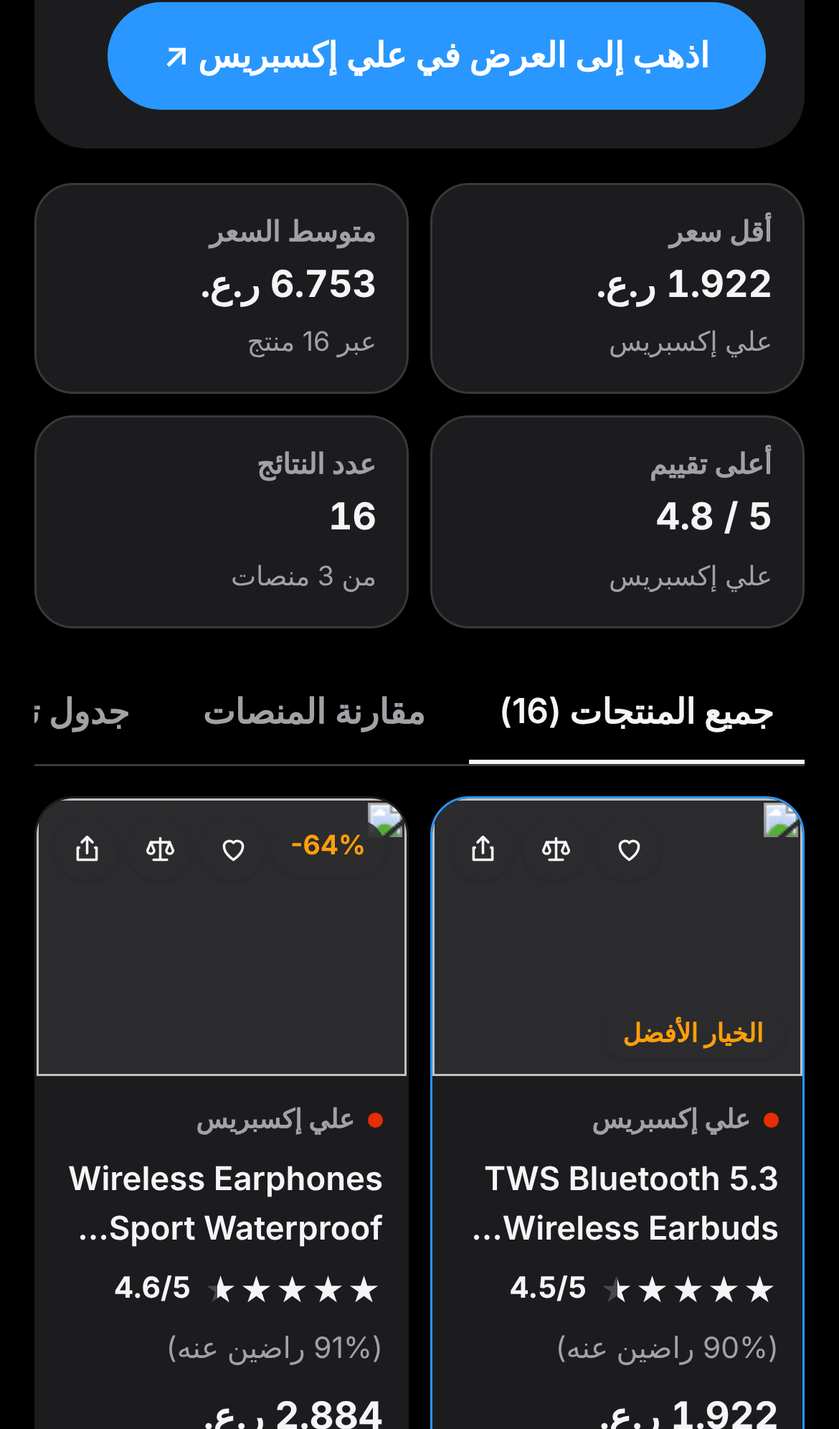
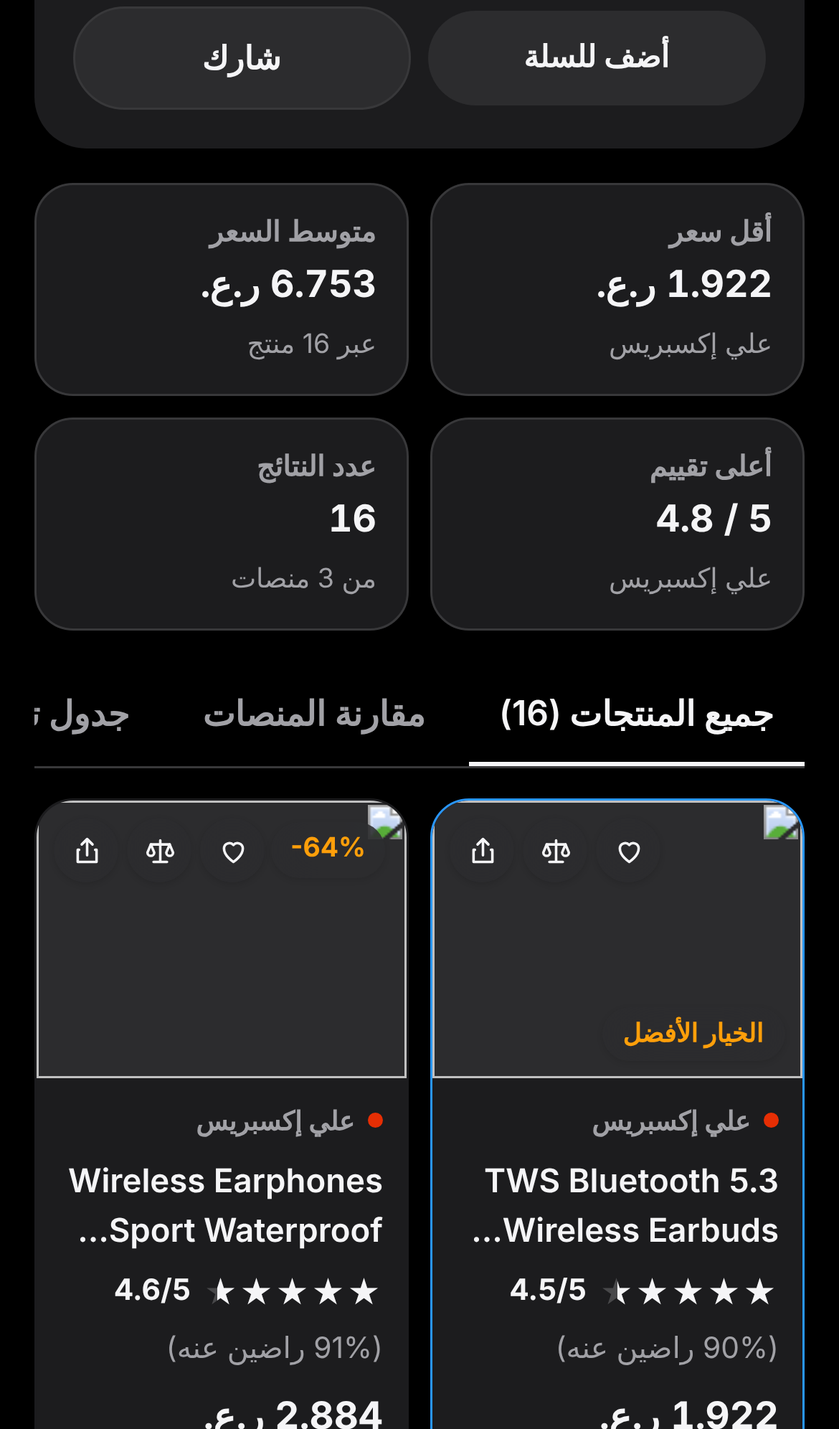
Organize layout: remove popular searches, categories and product count; Almarai font; equal tiles, grouped follow list, segmented priority control, aligned card buttons
Claude-Session: https://claude.ai/code/session_01JPcJJz9RvUid6aaScUD6z8

diff --git a/index.html b/index.html
@@ -14,6 +14,9 @@
 <meta property="og:image" content="https://abtkar2011-bot.github.io/Qarin/icons/icon-512.png">
 <meta property="og:url" content="https://abtkar2011-bot.github.io/Qarin/">
 <meta property="og:locale" content="ar_AR">
+<link rel="preconnect" href="https://fonts.googleapis.com">
+<link rel="preconnect" href="https://fonts.gstatic.com" crossorigin>
+<link rel="stylesheet" href="https://fonts.googleapis.com/css2?family=Almarai:wght@300;400;700;800&display=swap">
 <link rel="manifest" href="manifest.webmanifest">
 <meta name="theme-color" content="#F5F5F7" media="(prefers-color-scheme: light)">
 <meta name="theme-color" content="#000000" media="(prefers-color-scheme: dark)">
@@ -63,7 +66,7 @@
   --glass: rgba(255, 255, 255, 0.82);
   --mark-filter: brightness(0);
   --logo-bg: #1D1D1F;
-  --font: -apple-system, BlinkMacSystemFont, 'SF Pro Text', 'SF Arabic', 'Segoe UI', 'Noto Sans Arabic', Tahoma, sans-serif;
+  --font: 'Almarai', -apple-system, BlinkMacSystemFont, 'Segoe UI', 'Noto Sans Arabic', Tahoma, sans-serif;
   --radius: 18px;
 }
 @media (prefers-color-scheme: dark) {
@@ -124,7 +127,7 @@ a { color: inherit; }
 .icon-btn { display: none; width: 36px; height: 36px; border-radius: 10px; border: 1px solid var(--line); background: var(--surface-2); cursor: pointer; }
 .side-sec { display: flex; flex-direction: column; gap: 8px; }
 .side-sec h3 { margin: 0; font-size: 0.95rem; font-weight: 700; }
-.checks { display: grid; grid-template-columns: 1fr 1fr; gap: 6px; }
+.checks { display: grid; grid-template-columns: minmax(0, 1fr); gap: 6px; }
 .check {
   display: flex; align-items: center; gap: 8px; padding: 7px 10px; border: 1px solid var(--line);
   border-radius: 12px; cursor: pointer; font-size: 0.9rem; font-weight: 600; background: var(--surface);
@@ -183,7 +186,14 @@ html[dir="ltr"] .mini-sel select { padding: 7px 28px 7px 12px; background-positi
 .src-line { display: flex; flex-wrap: wrap; justify-content: center; align-items: center; gap: 4px 14px; font-size: 0.84rem; color: var(--muted); margin-top: -4px; }
 .src-line > span { display: inline-flex; align-items: center; gap: 6px; }
 .src-line .src-n { flex-basis: 100%; justify-content: center; }
-.follow .hero-links { margin-top: 6px; }
+.follow { background: var(--surface); border: 1px solid var(--line); border-radius: 18px; overflow: hidden; margin-top: 4px; }
+.follow-list { display: flex; flex-direction: column; }
+.follow-list a { display: flex; align-items: center; gap: 12px; padding: 14px 16px; color: var(--fg); text-decoration: none; font-weight: 700; font-size: 0.95rem; }
+.follow-list a + a { border-top: 1px solid var(--line); }
+.follow-list a svg { width: 22px; height: 22px; flex: none; color: var(--fg); }
+.follow-list a::after { content: "‹"; margin-inline-start: auto; color: var(--muted); font-size: 1.3rem; line-height: 1; }
+html[dir="ltr"] .follow-list a::after { content: "›"; }
+.follow-list a:active { background: var(--surface-2); }
 .pre-search .filters-toggle { display: none !important; }
 .theme-btn { flex: none; width: 38px; height: 38px; border-radius: 50%; border: 1px solid var(--line); background: var(--surface); color: var(--fg); display: grid; place-items: center; cursor: pointer; padding: 0; transition: transform .2s ease; }
 .theme-btn:active { transform: scale(.92); }
@@ -304,7 +314,10 @@ html[dir="ltr"] .app, html[dir="ltr"] .dock, html[dir="ltr"] .cmp-bar, html[dir=
 .score b { color: var(--fg); font-size: 0.85rem; }
 a.shop-btn { margin-top: auto; display: block; text-align: center; text-decoration: none; font-weight: 600; padding: 9px 12px; border-radius: 999px; font-size: 0.9rem; background: var(--accent); color: #FFFFFF; transition: filter 0.15s ease; }
 a.shop-btn:hover { filter: brightness(1.1); }
-.best-card a.shop-btn { display: inline-block; padding: 12px 26px; font-size: 1rem; margin-top: 6px; }
+.best-card a.shop-btn { display: block; padding: 12px 20px; font-size: 1rem; margin-top: 0; }
+.best-card .acts-row { display: grid; grid-template-columns: 1fr 1fr; gap: 8px; width: 100%; margin-top: 4px; }
+.best-card .acts-row a.shop-btn { grid-column: 1 / -1; order: -1; }
+.best-card .acts-row .cart-btn, .best-card .acts-row .share-btn { width: 100%; margin: 0; padding: 11px 12px; border-radius: 999px; }
 .skeleton .img, .skeleton .line { background: linear-gradient(90deg, var(--skel-1) 25%, var(--skel-2) 50%, var(--skel-1) 75%); background-size: 200% 100%; animation: shimmer 1.2s infinite; }
 .skeleton .line { height: 12px; border-radius: 6px; }
 @keyframes shimmer { 0% { background-position: 200% 0; } 100% { background-position: -200% 0; } }
@@ -486,17 +499,12 @@ table.dt { min-width: 0; font-size: .76rem; }
 .bk-mix { background: var(--surface); border: 1px solid var(--line); border-radius: 20px; padding: 14px 16px; }
 
 /* ---------- الأولوية والأقسام والروابط ---------- */
-.prio-bar { display: flex; flex-wrap: wrap; gap: 6px; align-items: center; background: var(--surface); border: 1px solid var(--line); border-radius: 16px; padding: 8px 10px; }
-.prio-bar span { font-weight: 700; font-size: 0.92rem; margin-inline-end: 4px; }
-.prio-bar button { border: 1px solid var(--line); background: var(--surface-2); color: var(--fg); border-radius: 999px; padding: 6px 12px; font: inherit; font-weight: 700; font-size: 0.86rem; cursor: pointer; }
-.prio-bar button[aria-checked="true"] { background: var(--fg); border-color: var(--fg); color: var(--surface); }
-.cats { background: var(--surface); border: 1px solid var(--line); border-radius: 18px; padding: 10px 12px; display: flex; flex-direction: column; gap: 8px; }
-.cats b { font-size: 0.95rem; }
-.cat-tabs, .cat-chips { display: flex; gap: 6px; overflow-x: auto; padding-bottom: 2px; scrollbar-width: thin; }
-.cat-tabs button { flex: none; border: 0; background: var(--surface-2); border-radius: 12px; padding: 7px 12px; font: inherit; font-weight: 700; cursor: pointer; color: var(--fg); }
-.cat-tabs button.on { background: var(--fg); color: var(--surface); }
-.cat-chips button { flex: none; border: 1px solid var(--line); background: var(--surface); border-radius: 999px; padding: 6px 12px; font: inherit; font-weight: 600; font-size: 0.88rem; cursor: pointer; color: var(--fg); }
-.cat-chips button:hover { border-color: var(--accent); color: var(--accent-strong); }
+.prio-bar { display: flex; flex-direction: column; gap: 10px; background: var(--surface); border: 1px solid var(--line); border-radius: 18px; padding: 12px; }
+.prio-head { display: flex; align-items: center; justify-content: space-between; gap: 8px; min-height: 34px; }
+.prio-head > span { font-weight: 700; font-size: 0.95rem; }
+.prio-seg { display: grid; grid-template-columns: repeat(5, minmax(0, 1fr)); gap: 2px; padding: 3px; border-radius: 12px; background: var(--surface-2); }
+.prio-seg button { border: 0; background: transparent; color: var(--fg); border-radius: 9px; padding: 8px 4px; min-height: 40px; font: inherit; font-weight: 700; font-size: 0.84rem; line-height: 1.25; cursor: pointer; }
+.prio-seg button[aria-checked="true"] { background: var(--surface); box-shadow: 0 1px 4px rgba(0, 0, 0, 0.12); }
 .link-box { display: flex; gap: 12px; align-items: center; background: var(--tint-2); border: 1px solid var(--line); border-radius: 16px; padding: 10px 14px; }
 .link-box img { width: 56px; height: 56px; object-fit: cover; border-radius: 10px; flex: none; }
 .link-box div { min-width: 0; font-size: 0.9rem; }
@@ -505,11 +513,17 @@ table.dt { min-width: 0; font-size: .76rem; }
 .with-ship b { color: var(--fg); }
 
 /* ---------- سلة المستخدم ---------- */
+.pcard .cart-btn { margin-top: auto; }
+.pcard a.shop-btn { margin-top: 6px; }
 .cart-btn { margin-top: 6px; width: 100%; border: 0; background: var(--surface-2); color: var(--fg); border-radius: 999px; padding: 8px 10px; font: inherit; font-weight: 600; font-size: 0.88rem; cursor: pointer; }
 .pre-search .prio-bar { display: none; }
 .img-btn { flex: none; border: 0; background: transparent; color: var(--muted); border-radius: 50%; width: 44px; height: 44px; padding: 0; cursor: pointer; display: inline-flex; align-items: center; justify-content: center; }
 .img-btn svg { width: 21px; height: 21px; }
-.tools-row { display: flex; gap: 8px; flex-wrap: wrap; margin: 4px 0 12px; }
+.tools-row { display: grid; grid-template-columns: repeat(2, minmax(0, 1fr)); gap: 10px; }
+.tools-row .tool-btn { display: flex; flex-direction: column; align-items: flex-start; gap: 3px; padding: 14px 16px; border-radius: 18px; text-align: start; min-width: 0; }
+.tools-row .tool-btn svg { width: 24px; height: 24px; margin-bottom: 4px; }
+.tools-row .tool-btn span { font-size: 0.98rem; font-weight: 700; }
+.tools-row .tool-btn small { display: block; line-height: 1.4; }
 .tool-btn { display: inline-flex; align-items: center; gap: 8px; padding: 9px 16px; border-radius: 999px; border: 1px solid var(--line); background: var(--surface); color: var(--fg); font: inherit; font-weight: 600; cursor: pointer; }
 .tool-btn small { font-weight: 600; color: var(--muted); font-size: .78rem; }
 .tool-btn[aria-expanded="true"] { background: var(--surface-2); border-color: var(--fg); }
@@ -539,7 +553,7 @@ table.dt { min-width: 0; font-size: .76rem; }
 .bk-acts button { flex: 1; border-radius: 12px; padding: 8px; font: inherit; font-weight: 700; cursor: pointer; border: 1px solid var(--line); background: var(--surface-2); color: var(--fg); }
 .share-btn { margin-top: 6px; border: 1px solid var(--line); background: var(--surface-2); color: var(--fg); border-radius: 12px; padding: 8px 14px; font: inherit; font-weight: 700; cursor: pointer; white-space: nowrap; }
 .cart-btn.on { background: var(--surface-2); color: var(--good); }
-.best-card .row .cart-btn { width: auto; margin: 6px 0 0; padding: 12px 18px; }
+
 .cart-row .tt { color: inherit; text-decoration: none; }
 .qty { display: flex; align-items: center; gap: 8px; margin-top: 6px; }
 .qty button { width: 30px; height: 30px; border-radius: 8px; border: 1px solid var(--line); background: var(--surface-2); cursor: pointer; font: inherit; font-weight: 700; color: inherit; }
@@ -593,17 +607,11 @@ table.dt { min-width: 0; font-size: .76rem; }
   .search input { font-size: 1rem; padding: 9px 12px; }
   .search .btn-primary, .img-btn { height: 42px; min-width: 42px; width: 42px; padding: 0; }
   .hero p { font-size: 0.98rem; }
-  .tools-row { justify-content: center; margin: 0 0 4px; }
-  .tool-btn { padding: 7px 14px; font-size: 0.9rem; }
-  .tool-btn small { display: none; }
-  .suggest > span { font-size: 0.85rem; }
-  .chips-row { flex: 1 1 100%; flex-wrap: nowrap; overflow-x: auto; scrollbar-width: none; padding-bottom: 2px; }
-  .chips-row::-webkit-scrollbar { display: none; }
-  .chip-btn { flex: none; }
   .dock .rate-fab { display: none; }
   .dock.only-rate { display: none; }
-  body:not(.pre-search) .hero p, body:not(.pre-search) .src-line, body:not(.pre-search) .tools-row, body:not(.pre-search) .cats,
-  body:not(.pre-search) .suggest > span, body:not(.pre-search) #chips { display: none; }
+  body:not(.pre-search) .hero p, body:not(.pre-search) .src-line, body:not(.pre-search) .tools-row { display: none; }
+  .tools-row .tool-btn { padding: 13px 14px; }
+  .prio-seg button { font-size: 0.78rem; padding: 7px 2px; }
   body:not(.pre-search) .hero { padding-top: 2px; }
   body:not(.pre-search) .hero h1 { font-size: 1.7rem; }
   .btn-primary { padding: 0 16px; }
@@ -723,8 +731,8 @@ table.dt { min-width: 0; font-size: .76rem; }
     </div>
     <div class="src-line" id="heroChips"></div>
     <div class="tools-row">
-      <button type="button" class="tool-btn" id="basketToggle" aria-expanded="false" aria-controls="basketBox"><span>أفضل سلة</span><small>قارن سلة كاملة بين المتاجر</small></button>
-      <a class="tool-btn" href="coupons.html" style="text-decoration:none"><span>كوبونات اليوم</span><small>أكواد خصم رسمية</small></a>
+      <button type="button" class="tool-btn" id="basketToggle" aria-expanded="false" aria-controls="basketBox"><svg viewBox="0 0 24 24" fill="none" stroke="currentColor" stroke-width="1.8" stroke-linecap="round" stroke-linejoin="round" aria-hidden="true"><path d="M3 10h18l-1.6 9.2a1 1 0 0 1-1 .8H5.6a1 1 0 0 1-1-.8L3 10Z"/><path d="m8 10 3-6M16 10l-3-6M9 14v3M15 14v3"/></svg><span>أفضل سلة</span><small>قارن سلة كاملة بين المتاجر</small></button>
+      <a class="tool-btn" href="coupons.html" style="text-decoration:none"><svg viewBox="0 0 24 24" fill="none" stroke="currentColor" stroke-width="1.8" stroke-linecap="round" stroke-linejoin="round" aria-hidden="true"><path d="M4 7a1 1 0 0 1 1-1h14a1 1 0 0 1 1 1v3a2 2 0 0 0 0 4v3a1 1 0 0 1-1 1H5a1 1 0 0 1-1-1v-3a2 2 0 0 0 0-4V7Z"/><path d="M14 6v12" stroke-dasharray="2 2"/></svg><span>كوبونات اليوم</span><small>أكواد خصم رسمية</small></a>
     </div>
     <section class="basket-box" id="basketBox" hidden>
       <div class="bb-head"><b>أفضل سلة</b><span>اكتب كل منتج في خانة، ونطلع لك أفضل سلة من كل متجر لحاله</span></div>
@@ -732,31 +740,25 @@ table.dt { min-width: 0; font-size: .76rem; }
       <div class="bb-acts"><button type="button" class="tool-btn" id="basketAdd">أضف منتج</button><button type="button" class="btn-primary" id="basketGo">دوّر أفضل سلة</button></div>
     </section>
 
-    <div class="suggest">
-      <span>عمليات بحث شائعة:</span>
-      <div class="chips-row" id="chips"></div>
-      <button type="button" class="filters-toggle" id="openFilters"><svg viewBox="0 0 24 24" fill="none" stroke="currentColor" stroke-width="1.9" stroke-linecap="round" stroke-linejoin="round" aria-hidden="true"><path d="M4 7h10M18 7h2M4 17h4M12 17h8"/><circle cx="16" cy="7" r="2"/><circle cx="10" cy="17" r="2"/></svg><span>الفلاتر</span></button>
-    </div>
-
-    <div class="cats" id="cats"></div>
-
-    <div class="prio-bar" role="radiogroup" aria-label="أولويتك">
-      <span>أولويتك:</span>
+    <div class="prio-bar">
+      <div class="prio-head"><span>أولويتك</span><button type="button" class="filters-toggle" id="openFilters"><svg viewBox="0 0 24 24" fill="none" stroke="currentColor" stroke-width="1.9" stroke-linecap="round" stroke-linejoin="round" aria-hidden="true"><path d="M4 7h10M18 7h2M4 17h4M12 17h8"/><circle cx="16" cy="7" r="2"/><circle cx="10" cy="17" r="2"/></svg><span>الفلاتر</span></button></div>
+      <div class="prio-seg" role="radiogroup" aria-label="أولويتك">
       <button type="button" role="radio" data-prio="0">الأرخص</button>
       <button type="button" role="radio" data-prio="1">أقرب للأرخص</button>
       <button type="button" role="radio" data-prio="2">متوازن</button>
       <button type="button" role="radio" data-prio="3">أقرب للجودة</button>
       <button type="button" role="radio" data-prio="4">الأجود</button>
+      </div>
     </div>
 
     <div id="status"></div>
     <div id="results" class="main" style="gap:16px"></div>
 
     <section class="follow" aria-label="تابع قارِن">
-      <div class="hero-links">
-        <a class="wa-btn" href="https://whatsapp.com/channel/0029Vb9jfF32ER6lZlW2Qn2F" target="_blank" rel="noopener noreferrer"><svg viewBox="0 0 24 24" aria-hidden="true"><path fill="currentColor" d="M12 2a10 10 0 0 0-8.6 15.1L2 22l5-1.3A10 10 0 1 0 12 2Zm0 18.2a8.2 8.2 0 0 1-4.2-1.2l-.3-.2-3 .8.8-2.9-.2-.3A8.2 8.2 0 1 1 12 20.2Zm4.5-6.1c-.2-.1-1.5-.7-1.7-.8-.2-.1-.4-.1-.6.1l-.8 1c-.1.2-.3.2-.5.1a6.7 6.7 0 0 1-3.3-2.9c-.2-.4.2-.4.7-1.3.1-.2 0-.3 0-.4l-.8-1.9c-.2-.5-.4-.4-.6-.4h-.5c-.2 0-.4.1-.6.3a2.6 2.6 0 0 0-.8 1.9c0 1.1.8 2.2.9 2.4.1.2 1.6 2.5 3.9 3.5 1.5.6 2 .7 2.7.6.4-.1 1.3-.5 1.5-1.1.2-.5.2-1 .1-1.1l-.6-.2Z"/></svg><span>تابع عروض قارِن اليومية على واتساب</span></a>
-        <a class="wa-btn" href="https://www.instagram.com/qarin_app/" target="_blank" rel="noopener noreferrer"><svg viewBox="0 0 24 24" aria-hidden="true"><path fill="currentColor" d="M12 2.2c3.2 0 3.6 0 4.8.1 3.3.1 4.8 1.7 4.9 4.9.1 1.3.1 1.6.1 4.8s0 3.6-.1 4.8c-.1 3.2-1.7 4.8-4.9 4.9-1.3.1-1.6.1-4.8.1s-3.6 0-4.8-.1c-3.3-.1-4.8-1.7-4.9-4.9-.1-1.3-.1-1.6-.1-4.8s0-3.6.1-4.8C2.4 4 3.9 2.4 7.2 2.3c1.3-.1 1.6-.1 4.8-.1ZM12 0C8.7 0 8.3 0 7.1.1 2.7.3.3 2.7.1 7.1 0 8.3 0 8.7 0 12s0 3.7.1 4.9c.2 4.4 2.6 6.8 7 7 1.2.1 1.6.1 4.9.1s3.7 0 4.9-.1c4.4-.2 6.8-2.6 7-7 .1-1.2.1-1.6.1-4.9s0-3.7-.1-4.9c-.2-4.4-2.6-6.8-7-7C15.7 0 15.3 0 12 0Zm0 5.8a6.2 6.2 0 1 0 0 12.4 6.2 6.2 0 0 0 0-12.4Zm0 10.2a4 4 0 1 1 0-8 4 4 0 0 1 0 8Zm6.4-11.8a1.4 1.4 0 1 0 0 2.9 1.4 1.4 0 0 0 0-2.9Z"/></svg><span>تابعنا على انستقرام</span></a>
-        <a class="wa-btn" href="#" id="installHero"><svg viewBox="0 0 24 24" fill="none" stroke="currentColor" stroke-width="1.9" stroke-linecap="round" stroke-linejoin="round" aria-hidden="true"><rect x="4" y="4" width="16" height="16" rx="4"/><path d="M12 8.5v7M8.5 12h7"/></svg><span>أضف قارِن لشاشتك</span></a>
+      <div class="follow-list">
+        <a href="https://whatsapp.com/channel/0029Vb9jfF32ER6lZlW2Qn2F" target="_blank" rel="noopener noreferrer"><svg viewBox="0 0 24 24" aria-hidden="true"><path fill="currentColor" d="M12 2a10 10 0 0 0-8.6 15.1L2 22l5-1.3A10 10 0 1 0 12 2Zm0 18.2a8.2 8.2 0 0 1-4.2-1.2l-.3-.2-3 .8.8-2.9-.2-.3A8.2 8.2 0 1 1 12 20.2Zm4.5-6.1c-.2-.1-1.5-.7-1.7-.8-.2-.1-.4-.1-.6.1l-.8 1c-.1.2-.3.2-.5.1a6.7 6.7 0 0 1-3.3-2.9c-.2-.4.2-.4.7-1.3.1-.2 0-.3 0-.4l-.8-1.9c-.2-.5-.4-.4-.6-.4h-.5c-.2 0-.4.1-.6.3a2.6 2.6 0 0 0-.8 1.9c0 1.1.8 2.2.9 2.4.1.2 1.6 2.5 3.9 3.5 1.5.6 2 .7 2.7.6.4-.1 1.3-.5 1.5-1.1.2-.5.2-1 .1-1.1l-.6-.2Z"/></svg><span>تابع عروض قارِن اليومية على واتساب</span></a>
+        <a href="https://www.instagram.com/qarin_app/" target="_blank" rel="noopener noreferrer"><svg viewBox="0 0 24 24" aria-hidden="true"><path fill="currentColor" d="M12 2.2c3.2 0 3.6 0 4.8.1 3.3.1 4.8 1.7 4.9 4.9.1 1.3.1 1.6.1 4.8s0 3.6-.1 4.8c-.1 3.2-1.7 4.8-4.9 4.9-1.3.1-1.6.1-4.8.1s-3.6 0-4.8-.1c-3.3-.1-4.8-1.7-4.9-4.9-.1-1.3-.1-1.6-.1-4.8s0-3.6.1-4.8C2.4 4 3.9 2.4 7.2 2.3c1.3-.1 1.6-.1 4.8-.1ZM12 0C8.7 0 8.3 0 7.1.1 2.7.3.3 2.7.1 7.1 0 8.3 0 8.7 0 12s0 3.7.1 4.9c.2 4.4 2.6 6.8 7 7 1.2.1 1.6.1 4.9.1s3.7 0 4.9-.1c4.4-.2 6.8-2.6 7-7 .1-1.2.1-1.6.1-4.9s0-3.7-.1-4.9c-.2-4.4-2.6-6.8-7-7C15.7 0 15.3 0 12 0Zm0 5.8a6.2 6.2 0 1 0 0 12.4 6.2 6.2 0 0 0 0-12.4Zm0 10.2a4 4 0 1 1 0-8 4 4 0 0 1 0 8Zm6.4-11.8a1.4 1.4 0 1 0 0 2.9 1.4 1.4 0 0 0 0-2.9Z"/></svg><span>تابعنا على انستقرام</span></a>
+        <a href="#" id="installHero"><svg viewBox="0 0 24 24" fill="none" stroke="currentColor" stroke-width="1.9" stroke-linecap="round" stroke-linejoin="round" aria-hidden="true"><rect x="4" y="4" width="16" height="16" rx="4"/><path d="M12 8.5v7M8.5 12h7"/></svg><span>أضف قارِن لشاشتك</span></a>
       </div>
     </section>
 
@@ -2632,7 +2634,7 @@ table.dt { min-width: 0; font-size: .76rem; }
           <span class="meta">مؤشر القيمة <b class="num">${p.score.toFixed(0)}</b>/100</span></div>
         ${histHtml(p)}
         <div class="meta-line">${metaHtml(p)}</div>
-        <div class="row">${cartBtn(p)}<button type="button" class="share-btn" data-share="${esc(pkey(p))}">شارك</button>${shopBtn(p, `اذهب إلى العرض في ${pl.name} ↗`)}</div>
+        <div class="row acts-row">${cartBtn(p)}<button type="button" class="share-btn" data-share="${esc(pkey(p))}">شارك</button>${shopBtn(p, `اذهب إلى العرض في ${pl.name} ↗`)}</div>
       </div></section>`;
   }
 
@@ -3314,7 +3316,6 @@ table.dt { min-width: 0; font-size: .76rem; }
     initTheme();
     if (QA) window.__qa = { search, state, raw: QA_RAW, toEnglish, normalize, cache };
     $('heroChips').innerHTML = KEYS.map(k => `<span>${dotI(k)}${PLATFORMS[k].name}</span>`).join('');
-    $('chips').innerHTML = SUGGESTIONS.map(s => `<button type="button" class="chip-btn" data-q="${esc(s)}">${esc(s)}</button>`).join('');
     $('platformChecks').innerHTML = KEYS.map(k => `<label class="check" for="pf-${k}"><input type="checkbox" id="pf-${k}" data-plat="${k}" checked>
       <span class="dot" style="background:${PLATFORMS[k].color}"></span>${PLATFORMS[k].name}</label>`).join('');
     $('sortSel').innerHTML = Object.entries(SORTS).map(([k, l]) => `<option value="${k}">${l.replace(EMO_LEAD, '')}</option>`).join('');
@@ -3325,7 +3326,6 @@ table.dt { min-width: 0; font-size: .76rem; }
       if (m) {
         aliLive = true; renderSources();
         const k = m.n >= 1e6 ? (Math.round(m.n / 1e5) / 10).toLocaleString('en-US') + ' مليون' : m.n >= 1000 ? Math.floor(m.n / 1000).toLocaleString('en-US') + ' ألف' : m.n.toLocaleString('en-US');
-        $('heroChips').insertAdjacentHTML('beforeend', `<span class="src-n">نبحث في ${k} منتج من علي إكسبرس</span>`);
         return;
       }
       fetch(ALI_DATA + 'index.json').then(r => r.ok ? r.json() : null).then(d => { if (d && d.rows) { aliLive = true; renderSources(); } }).catch(() => {});
@@ -3343,7 +3343,6 @@ table.dt { min-width: 0; font-size: .76rem; }
     $('basketInputs').addEventListener('click', e => { const d = e.target.closest('[data-bb-del]'); if (d) { const v = basketVals(); v.splice(+d.dataset.bbDel, 1); basketRows(v); } });
     $('basketInputs').addEventListener('keydown', e => { if (e.key === 'Enter' && e.target.classList.contains('bb-in')) { e.preventDefault(); runBasket(basketVals()); } });
     $('basketGo').addEventListener('click', () => runBasket(basketVals()));
-    $('chips').addEventListener('click', e => { const b = e.target.closest('.chip-btn'); if (b) search(b.dataset.q, false); });
     $('langSel').innerHTML = LANGS.map(([k, n]) => `<option value="${k}">${n}</option>`).join('');
     $('langSel').value = LANG;
     $('langSel').addEventListener('change', e => setLang(e.target.value));
@@ -3372,11 +3371,6 @@ table.dt { min-width: 0; font-size: .76rem; }
     $('limit').addEventListener('input', e => { state.limit = +e.target.value; render(); });
     $('priority').addEventListener('input', e => setPrio(+e.target.value));
     document.querySelectorAll('[data-prio]').forEach(b => b.addEventListener('click', () => setPrio(+b.dataset.prio)));
-    renderCats();
-    $('cats').addEventListener('click', e => {
-      const t = e.target.closest('[data-cat]'); if (t) { catOpen = +t.dataset.cat; renderCats(); try { $('cats').querySelector('.cat-tabs .on').scrollIntoView({ block: 'nearest', inline: 'nearest' }); } catch (err) { /* متصفح قديم */ } return; }
-      const c = e.target.closest('[data-catq]'); if (c) { search(c.dataset.catq, false); $('results').scrollIntoView({ behavior: 'smooth', block: 'start' }); }
-    });
 
     $('results').addEventListener('click', e => {
       const tab = e.target.closest('[data-tab]');

diff --git a/searches.html b/searches.html
@@ -10,11 +10,14 @@
 <meta name="theme-color" content="#F5F5F7" media="(prefers-color-scheme: light)">
 <meta name="theme-color" content="#000000" media="(prefers-color-scheme: dark)">
 <script>try{var qt=localStorage.getItem('qarin.theme');if(qt==='light'||qt==='dark'){document.documentElement.setAttribute('data-theme',qt);document.querySelectorAll('meta[name="theme-color"]').forEach(function(m){m.content=qt==='dark'?'#000000':'#F5F5F7';});}}catch(e){}</script>
+<link rel="preconnect" href="https://fonts.googleapis.com">
+<link rel="preconnect" href="https://fonts.gstatic.com" crossorigin>
+<link rel="stylesheet" href="https://fonts.googleapis.com/css2?family=Almarai:wght@300;400;700;800&display=swap">
 <style>
 :root { color-scheme: light; --bg: #F5F5F7; --surface: #FFFFFF; --fg: #1D1D1F; --muted: #6E6E73; --line: #E3E3E8; --accent: #0071E3; --link: #0066CC; }
 @media (prefers-color-scheme: dark) { :root:not([data-theme="light"]) { --bg: #000000; --surface: #1C1C1E; --fg: #F5F5F7; --muted: #A1A1A6; --line: #38383A; --accent: #2997FF; --link: #2997FF; color-scheme: dark; } }
 :root[data-theme="dark"] { --bg: #000000; --surface: #1C1C1E; --fg: #F5F5F7; --muted: #A1A1A6; --line: #38383A; --accent: #2997FF; --link: #2997FF; color-scheme: dark; }
-body { margin: 0; font-family: -apple-system, BlinkMacSystemFont, 'SF Pro Text', 'SF Arabic', 'Segoe UI', Tahoma, sans-serif; background: var(--bg); color: var(--fg); line-height: 1.7; }
+body { margin: 0; font-family: 'Almarai', -apple-system, BlinkMacSystemFont, 'Segoe UI', Tahoma, sans-serif; background: var(--bg); color: var(--fg); line-height: 1.7; }
 main { max-width: 980px; margin: 0 auto; padding: 24px 16px 48px; }
 header { display: flex; align-items: center; gap: 12px; margin-bottom: 8px; }
 header img { width: 52px; height: 52px; border-radius: 12px; }

diff --git a/stats.html b/stats.html
@@ -7,13 +7,16 @@
 <meta name="theme-color" content="#000000" media="(prefers-color-scheme: dark)">
 <script>try{var qt=localStorage.getItem('qarin.theme');if(qt==='light'||qt==='dark'){document.documentElement.setAttribute('data-theme',qt);document.querySelectorAll('meta[name="theme-color"]').forEach(function(m){m.content=qt==='dark'?'#000000':'#F5F5F7';});}}catch(e){}</script>
 <title>إحصائيات قارِن</title>
+<link rel="preconnect" href="https://fonts.googleapis.com">
+<link rel="preconnect" href="https://fonts.gstatic.com" crossorigin>
+<link rel="stylesheet" href="https://fonts.googleapis.com/css2?family=Almarai:wght@300;400;700;800&display=swap">
 <style>
 :root {
   --bg: #F5F5F7; --surface: #FFFFFF; --surface-2: #F5F5F7; --fg: #1D1D1F; --muted: #6E6E73; --line: #E3E3E8;
   --accent: #0071E3; --accent-strong: #0066CC; --gold: #1D1D1F; --good: #248A3D; --bad: #D70015; --star-off: #D2D2D7;
   --tint-1: #D1FAE5; --tint-2: #EDE9FE; --tint-3: #FEF3C7; --tint-4: #FCE7F3;
   --shadow: 0 4px 18px rgba(76, 29, 149, 0.07);
-  --font: -apple-system, BlinkMacSystemFont, 'SF Pro Text', 'SF Arabic', 'Segoe UI', 'Noto Sans Arabic', Tahoma, sans-serif;
+  --font: 'Almarai', -apple-system, BlinkMacSystemFont, 'Segoe UI', 'Noto Sans Arabic', Tahoma, sans-serif;
 }
 @media (prefers-color-scheme: dark) {
   :root:not([data-theme="light"]) {

diff --git a/about.html b/about.html
@@ -11,12 +11,15 @@
 <script>try{var qt=localStorage.getItem('qarin.theme');if(qt==='light'||qt==='dark'){document.documentElement.setAttribute('data-theme',qt);document.querySelectorAll('meta[name="theme-color"]').forEach(function(m){m.content=qt==='dark'?'#000000':'#F5F5F7';});}}catch(e){}</script>
 <link rel="icon" href="icons/favicon-32.png" sizes="32x32" type="image/png">
 <link rel="apple-touch-icon" sizes="180x180" href="https://abtkar2011-bot.github.io/Qarin/icons/apple-touch-icon.png?v=4">
+<link rel="preconnect" href="https://fonts.googleapis.com">
+<link rel="preconnect" href="https://fonts.gstatic.com" crossorigin>
+<link rel="stylesheet" href="https://fonts.googleapis.com/css2?family=Almarai:wght@300;400;700;800&display=swap">
 <style>
 :root {
   --bg: #F5F5F7; --surface: #FFFFFF; --fg: #1D1D1F; --muted: #6E6E73; --line: #E3E3E8;
   --accent-strong: #0066CC;
   --shadow: 0 4px 18px rgba(76, 29, 149, 0.07);
-  --font: -apple-system, BlinkMacSystemFont, 'SF Pro Text', 'SF Arabic', 'Segoe UI', 'Noto Sans Arabic', Tahoma, sans-serif;
+  --font: 'Almarai', -apple-system, BlinkMacSystemFont, 'Segoe UI', 'Noto Sans Arabic', Tahoma, sans-serif;
 }
 @media (prefers-color-scheme: dark) {
   :root:not([data-theme="light"]) {

diff --git a/privacy.html b/privacy.html
@@ -11,12 +11,15 @@
 <script>try{var qt=localStorage.getItem('qarin.theme');if(qt==='light'||qt==='dark'){document.documentElement.setAttribute('data-theme',qt);document.querySelectorAll('meta[name="theme-color"]').forEach(function(m){m.content=qt==='dark'?'#000000':'#F5F5F7';});}}catch(e){}</script>
 <link rel="icon" href="icons/favicon-32.png" sizes="32x32" type="image/png">
 <link rel="apple-touch-icon" sizes="180x180" href="https://abtkar2011-bot.github.io/Qarin/icons/apple-touch-icon.png?v=4">
+<link rel="preconnect" href="https://fonts.googleapis.com">
+<link rel="preconnect" href="https://fonts.gstatic.com" crossorigin>
+<link rel="stylesheet" href="https://fonts.googleapis.com/css2?family=Almarai:wght@300;400;700;800&display=swap">
 <style>
 :root {
   --bg: #F5F5F7; --surface: #FFFFFF; --fg: #1D1D1F; --muted: #6E6E73; --line: #E3E3E8;
   --accent-strong: #0066CC;
   --shadow: 0 4px 18px rgba(76, 29, 149, 0.07);
-  --font: -apple-system, BlinkMacSystemFont, 'SF Pro Text', 'SF Arabic', 'Segoe UI', 'Noto Sans Arabic', Tahoma, sans-serif;
+  --font: 'Almarai', -apple-system, BlinkMacSystemFont, 'Segoe UI', 'Noto Sans Arabic', Tahoma, sans-serif;
 }
 @media (prefers-color-scheme: dark) {
   :root:not([data-theme="light"]) {

diff --git a/coupons.html b/coupons.html
@@ -14,12 +14,15 @@
 <link rel="apple-touch-icon" sizes="180x180" href="https://abtkar2011-bot.github.io/Qarin/icons/apple-touch-icon.png?v=4">
 <meta property="og:title" content="كوبونات وعروض اليوم — قارِن">
 <meta property="og:image" content="https://abtkar2011-bot.github.io/Qarin/icons/icon-512.png">
+<link rel="preconnect" href="https://fonts.googleapis.com">
+<link rel="preconnect" href="https://fonts.gstatic.com" crossorigin>
+<link rel="stylesheet" href="https://fonts.googleapis.com/css2?family=Almarai:wght@300;400;700;800&display=swap">
 <style>
 :root {
   --bg: #F5F5F7; --surface: #FFFFFF; --surface-2: #F5F5F7; --fg: #1D1D1F; --muted: #6E6E73; --line: #E3E3E8;
   --accent: #0071E3; --accent-strong: #0066CC; --good: #248A3D; --warn: #B45309;
   --shadow: 0 4px 18px rgba(76, 29, 149, 0.07);
-  --font: -apple-system, BlinkMacSystemFont, 'SF Pro Text', 'SF Arabic', 'Segoe UI', 'Noto Sans Arabic', Tahoma, sans-serif;
+  --font: 'Almarai', -apple-system, BlinkMacSystemFont, 'Segoe UI', 'Noto Sans Arabic', Tahoma, sans-serif;
 }
 @media (prefers-color-scheme: dark) {
   :root:not([data-theme="light"]) {
